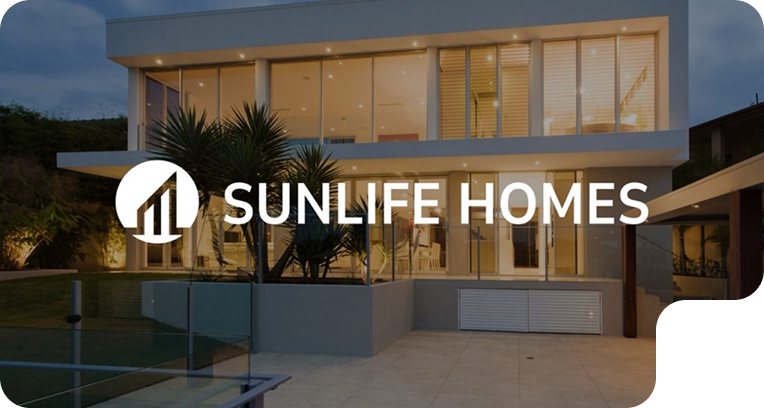
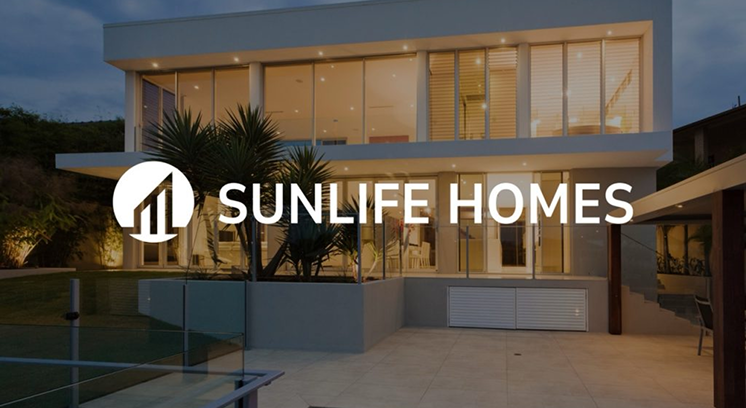
image design  corrected

diff --git a/src/components/Projects.tsx b/src/components/Projects.tsx
@@ -2,7 +2,7 @@ import React from "react";
 import { motion } from "framer-motion";
 import { ArrowUpRight } from "lucide-react";
 import { Link } from "react-router-dom";
-
+import CurveImageButton from "@/components/common/CurveImageButton";
 const projects = [
   {
     id: 1,
@@ -63,15 +63,9 @@ const Projects = () => {
                   className="w-full h-[240px] sm:h-[280px] lg:h-[300px] object-cover rounded-2xl transition-transform duration-500 "
                 />
 
-                {/* Arrow Button */}
-                <Link 
-              
-                  to="/blogs"
-                  className="absolute bottom-3 right-3 sm:bottom-4 sm:right-4 w-9 h-9 sm:w-10 sm:h-10 lg:right-4 xl:bottom-6  xl:right-4 2xl:bottom-1 2xl:right-10 flex items-center justify-center 
-             rounded-full bg-white/10 hover:bg-white/20 transition-all duration-300 backdrop-blur-md"
-                >
-                  <ArrowUpRight className="w-4 h-4 sm:w-5 sm:h-5 text-white" />
-                </Link>
+                <div className=" absolute bottom-0 right-0">
+                  <CurveImageButton />
+                </div>
               </div>
 
               {/* Project Details */}

diff --git a/src/components/common/CurveImageButton.jsx b/src/components/common/CurveImageButton.jsx
@@ -1,0 +1,24 @@
+import React from "react";
+import "./curveImageButoon.css";
+import { ArrowUpRight } from "lucide-react";
+import { Link } from "react-router-dom";
+
+function CurveImageButton() {
+  return (
+    <div className="curve-image-button bg-transparent">
+      <div className="top-curve bg-black"></div>
+      <div className="curve-container flex justify-center items-center bg-black">
+        <Link
+          to="/blogs"
+          className="  w-9 h-9  flex items-center justify-center 
+             rounded-full bg-white/10 hover:bg-white/20 transition-all duration-300 backdrop-blur-md"
+        >
+          <ArrowUpRight className="w-4 h-4 sm:w-5 sm:h-5 text-white" />
+        </Link>
+      </div>
+      <div className="bottom-curve bg-black"></div>
+    </div>
+  );
+}
+
+export default CurveImageButton;

diff --git a/src/components/OurVentures.tsx b/src/components/OurVentures.tsx
@@ -25,7 +25,7 @@ const OurVentures = () => {
                 backgroundImage: "url('./ventures/bg 2.png')",
                
               }}
-              className="relative   lg:col-span-2 bg-[#0e0e0e]/90 rounded-2xl p-6 md:p-8 lg:p-12 border border-white/50 text-white shadow-lg backdrop-blur-sm py-12 md:py-16 bg-center bg-no-repeat lg:bg-[length:110%]"
+              className="relative   lg:col-span-2 bg-[#0e0e0e]/90 rounded-2xl p-6 md:p-8 lg:p-12 border border-white/50 text-white shadow-lg backdrop-blur-sm py-12 md:py-16 bg-center bg-no-repeat xl:bg-[length:110%]"
             >
               {/* Background Pattern Overlay */}
               <div

diff --git a/src/components/common/curveImageButoon.css b/src/components/common/curveImageButoon.css
@@ -1,0 +1,30 @@
+.curve-image-button{
+width: 60px;
+height: 50px;
+position: relative;
+
+}
+
+.curve-container{
+  height: inherit;
+  border-top-left-radius: 20px;
+}
+
+.top-curve {
+  height: 50px;
+  width: 50px;
+  transform: rotate(270deg);
+  position: absolute;
+  right: -20px;
+  top: -50px;
+  clip-path: path("M0 0 Q0,30 30,30 L 0 30 Z");
+}
+.bottom-curve {
+   height: 50px;
+  width: 50px;
+  transform: rotate(270deg);
+  position: absolute;
+  left: -30px;
+  top: 0px;
+  clip-path: path("M0 0 Q0,30 30,30 L 0 30 Z");
+}
